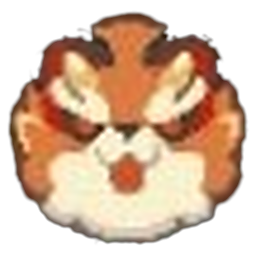
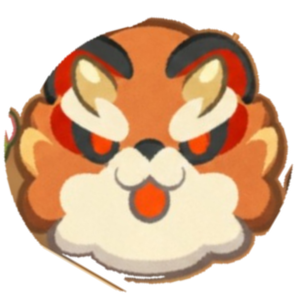
🍡 경단이 진짜 공처럼 데굴데굴 — 접점 마찰·각속도로 굴림 물리 새로 쓰고, 1~9단계 그림을 인게임 고화질 화면에서 다시 뽑음 (서비스 워커 v21)

diff --git a/js/gyeongdan.js b/js/gyeongdan.js
@@ -3,8 +3,9 @@
  *  · 수박게임 방식의 Canvas 2D 원형 물리 드롭 & 머지 게임입니다.
  *  · 외부 라이브러리 없이 직접 만든 물리: 중력 · 서브스텝 충돌(위치 보정 + 반발) ·
  *    벽/바닥 바운스 · 굴러떨어짐 · 위쪽 데드라인 2초 유예.
- *  · 경단 11단계(박쥐단 … 백운단)의 그림은 「경단 도감」에서 오려낸 assets/gyeongdan/tier-1~11.png 를
- *    몸통 반지름에 맞춰 그립니다. 그림을 못 받으면 아래 Canvas 코드의 벡터 그림이 대신 나옵니다.
+ *  · 경단 11단계(박쥐단 … 백운단)의 그림은 「도깨비의 세계」 인게임 화면에서 오려낸
+ *    assets/gyeongdan/tier-1~11.png 를 몸통 반지름에 맞춰 그립니다(1~9단계는 고화질 화면에서 새로 뽑음).
+ *    그림을 못 받으면 아래 Canvas 코드의 벡터 그림이 대신 나옵니다.
  *    (경단 이미지의 저작권은 「도깨비의 세계」에 있으며, 권리자 요청 시 즉시 삭제됩니다.)
  *  · 도구 3종(절구공이 · 교환부 · 승급붓)은 한 판에 각 2회.
  *  · 진행 중인 판은 localStorage 에 남겨 두어 창을 닫아도 이어서 할 수 있습니다.
@@ -55,13 +56,13 @@
      BALL[tier] = 그림 안에서 몸통(공)이 차지하는 지름 비율 → 물리 반지름과 똑같이 맞춥니다. */
   var SPRITE_PATH = 'assets/gyeongdan/tier-';
   var SPRITE_CREDIT = '경단 이미지의 저작권은 「도깨비의 세계」에 있으며, 권리자 요청 시 즉시 삭제될 수 있습니다.';
-  var SPRITE_BALL = { 1: 0.880, 2: 0.921, 3: 0.898, 4: 0.884, 5: 0.923, 6: 0.871,
-    7: 0.927, 8: 0.892, 9: 0.919, 10: 0.910, 11: 0.905 };
-  /* 그림 속 몸통 중심이 그림 가운데에서 얼마나 벗어났는지 — 회전축을 몸통 가운데로 */
+  var SPRITE_BALL = { 1: 0.900, 2: 0.900, 3: 0.900, 4: 0.900, 5: 0.900, 6: 0.872,
+    7: 0.900, 8: 0.874, 9: 0.825, 10: 0.910, 11: 0.905 };
+  /* 그림 속 몸통 중심이 그림 가운데에서 얼마나 벗어났는지 — 회전축을 몸통 가운데로
+     (1~9단계는 인게임 화면에서 몸통을 캔버스 한가운데에 맞춰 잘랐습니다) */
   var SPRITE_OFF = {
-    1: [-0.011, 0.000], 2: [-0.002, -0.002], 3: [-0.018, -0.004], 4: [0.004, 0.028],
-    5: [-0.006, 0.006], 6: [0.002, 0.022], 7: [0.002, 0.004], 8: [-0.010, 0.010],
-    9: [0.007, 0.035], 10: [0.004, -0.008], 11: [-0.013, 0.020]
+    1: [0, 0], 2: [0, 0], 3: [0, 0], 4: [0, 0], 5: [0, 0], 6: [0, 0],
+    7: [0, 0], 8: [0, 0], 9: [0, 0], 10: [0.004, -0.008], 11: [-0.013, 0.020]
   };
   var sprites = [];          // sprites[tier] = Image
   var spriteReady = {};      // 로드가 끝난 단계
@@ -288,31 +289,30 @@
      5. 물리
      =================================================================== */
 
+  /* --- 경단의 손맛을 정하는 값들 ---------------------------------------
+     · REST : 경단끼리 반발 — 아주 낮게 둬서 탱탱볼처럼 튀지 않습니다.
+     · FRIC : 접선 마찰계수(쿨롱). 낮게 둬서 곡면에 얹힌 경단이 옆으로 흘러
+              굴러 내려가게 합니다. 대신 접선 속도는 경단의 각속도로 바뀌어
+              실제로 데굴데굴 돌아갑니다.
+     · FRIC_FLOOR : 바닥 마찰 — 미끄러지는 대신 굴러가게 붙잡습니다.
+     · ROLL_DRAG : 굴러가는 동안의 구름 저항(한 스텝당). 아주 약하게. */
+  var REST = 0.13;
+  var FRIC = 0.20;
+  var FRIC_FLOOR = 0.62;
+  var FRIC_WALL = 0.34;
+  var MIN_BOUNCE = 130;      // 이보다 느리게 닿으면 튀지 않고 딱 붙습니다
+  var ROLL_DRAG = 0.9988;
+
   function integrate(dt) {
     var bodies = S.bodies;
     for (var i = 0; i < bodies.length; i++) {
       var b = bodies[i];
       if (b.held) { continue; }   // 테스트용 고정(화면에는 나오지 않습니다)
       b.vy += GRAVITY * dt;
-      b.vx *= 0.997;
       b.x += b.vx * dt;
       b.y += b.vy * dt;
       b.angle += b.av * dt;
-      b.av *= 0.988;
       if (b.age < 60) { b.age += dt; }
-
-      if (b.x - b.r < WALL) { b.x = WALL + b.r; if (b.vx < 0) { b.vx = -b.vx * 0.34; } }
-      if (b.x + b.r > W - WALL) { b.x = W - WALL - b.r; if (b.vx > 0) { b.vx = -b.vx * 0.34; } }
-      if (b.y + b.r > FLOOR) {
-        b.y = FLOOR - b.r;
-        /* 떡처럼 묵직하게 — 바닥 반발은 낮추고 마찰은 세게 */
-        if (b.vy > 0) { b.vy = b.vy > 260 ? -b.vy * 0.13 : 0; }
-        b.vx *= 0.94;
-        if (Math.abs(b.vx) < 9) { b.vx *= 0.7; }
-        /* 바닥에서 굴러가는 각속도 — 미끄러지지 않고 구르는 느낌 */
-        b.av = b.av * 0.5 + (b.vx / b.r) * 0.5;
-      }
-      if (b.y - b.r < -40) { b.y = b.r - 40; if (b.vy < 0) { b.vy = 0; } }
     }
   }
 
@@ -378,7 +378,7 @@
     bumpBest();
   }
 
-  function resolvePair(a, b) {
+  function resolvePair(a, b, impulse) {
     if (a.held || b.held) { return; }
     var dx = b.x - a.x, dy = b.y - a.y;
     var rr = a.r + b.r;
@@ -389,52 +389,120 @@
     var nx = dx / d, ny = dy / d;
     var overlap = rr - d;
     var ma = a.r * a.r, mb = b.r * b.r, mt = ma + mb;
+    var ima = 1 / ma, imb = 1 / mb;
 
+    /* 위치 보정 — 겹친 만큼 무게 비율대로 나누어 밀어냅니다 */
     a.x -= nx * overlap * (mb / mt);
     a.y -= ny * overlap * (mb / mt);
     b.x += nx * overlap * (ma / mt);
     b.y += ny * overlap * (ma / mt);
 
-    var rvx = b.vx - a.vx, rvy = b.vy - a.vy;
-    var vn = rvx * nx + rvy * ny;
+    if (!impulse) { return; }
+
+    var vn = (b.vx - a.vx) * nx + (b.vy - a.vy) * ny;
     if (vn > 0) { return; }
-    /* 반발 계수 — 통통 튀지 않게 낮게 */
-    var e = 0.14;
-    var j = -(1 + e) * vn / (1 / ma + 1 / mb);
-    a.vx -= j * nx / ma; a.vy -= j * ny / ma;
-    b.vx += j * nx / mb; b.vy += j * ny / mb;
 
-    /* 접선 마찰 — 경단끼리 물처럼 흘러내리지 않고 버티게 (쿨롱 마찰 한계) */
-    var MU = 0.52;
+    /* 법선 반발 — 천천히 닿으면 튀지 않고 딱 달라붙습니다 */
+    var e = (-vn > MIN_BOUNCE) ? REST : 0;
+    var jn = -(1 + e) * vn / (ima + imb);
+    a.vx -= jn * nx * ima; a.vy -= jn * ny * ima;
+    b.vx += jn * nx * imb; b.vy += jn * ny * imb;
+
+    /* 접선 — 접점의 상대 속도에는 각속도도 함께 들어갑니다.
+       미끄러지는 속도가 마찰로 회전으로 바뀌어 진짜 공처럼 데굴데굴 굴러갑니다. */
     var tx = -ny, ty = nx;
-    var vt = (b.vx - a.vx) * tx + (b.vy - a.vy) * ty;
-    var jt = -vt / (1 / ma + 1 / mb);
-    var limit = MU * j;
-    if (jt > limit) { jt = limit; }
-    if (jt < -limit) { jt = -limit; }
-    a.vx -= jt * tx / ma; a.vy -= jt * ty / ma;
-    b.vx += jt * tx / mb; b.vy += jt * ty / mb;
-
-    /* 아주 느린 접선 속도는 정지 마찰로 붙잡기 */
-    var vt2 = (b.vx - a.vx) * tx + (b.vy - a.vy) * ty;
-    if (Math.abs(vt2) < 14) {
-      a.vx += vt2 * tx * 0.5; a.vy += vt2 * ty * 0.5;
-      b.vx -= vt2 * tx * 0.5; b.vy -= vt2 * ty * 0.5;
-    }
-
-    /* 굴러가는 회전 — 접선 속도를 각속도로 나눠 줍니다 */
-    a.av = a.av * 0.6 + (a.vx / a.r) * 0.4 - vt2 / (a.r * 6);
-    b.av = b.av * 0.6 + (b.vx / b.r) * 0.4 - vt2 / (b.r * 6);
-    if (Math.abs(a.av) > 9) { a.av = a.av > 0 ? 9 : -9; }
-    if (Math.abs(b.av) > 9) { b.av = b.av > 0 ? 9 : -9; }
+    var vaT = a.vx * tx + a.vy * ty + a.av * a.r;
+    var vbT = b.vx * tx + b.vy * ty - b.av * b.r;
+    var invEff = 3 * (ima + imb);          // I = ½mr² — 회전 몫까지 합치면 3배
+    var jt = -(vbT - vaT) / invEff;
+    var lim = FRIC * jn;
+    if (jt > lim) { jt = lim; } else if (jt < -lim) { jt = -lim; }
+    a.vx -= jt * tx * ima; a.vy -= jt * ty * ima;
+    b.vx += jt * tx * imb; b.vy += jt * ty * imb;
+    a.av -= 2 * jt * ima / a.r;
+    b.av -= 2 * jt * imb / b.r;
+    clampSpin(a);
+    clampSpin(b);
   }
 
-  function resolveAll() {
+  function clampSpin(b) {
+    if (b.av > 40) { b.av = 40; } else if (b.av < -40) { b.av = -40; }
+  }
+
+  /** 벽·바닥과의 접촉 — 바닥에서는 미끄러짐이 굴림으로 바뀝니다. */
+  function resolveBounds(impulse) {
+    var bodies = S.bodies;
+    for (var i = 0; i < bodies.length; i++) {
+      var b = bodies[i];
+      if (b.held) { continue; }
+      var im = 1 / (b.r * b.r);
+
+      /* 왼쪽 벽 — 법선(+x) · 접선(+y) */
+      if (b.x - b.r < WALL) {
+        b.x = WALL + b.r;
+        if (impulse && b.vx < 0) { wallImpulse(b, -b.vx, im, 1, 0); }
+      }
+      /* 오른쪽 벽 — 법선(-x) · 접선(-y) */
+      if (b.x + b.r > W - WALL) {
+        b.x = W - WALL - b.r;
+        if (impulse && b.vx > 0) { wallImpulse(b, b.vx, im, -1, 0); }
+      }
+      /* 바닥 — 법선(위) · 접선(+x) */
+      if (b.y + b.r > FLOOR) {
+        b.y = FLOOR - b.r;
+        if (impulse) {
+          if (b.vy > 0) {
+            var e = (b.vy > MIN_BOUNCE) ? REST : 0;
+            var jn = -(1 + e) * (-b.vy) / im;
+            b.vy += jn * -1 * im;
+            /* 미끄러지는 속도 → 굴러가는 회전 */
+            var vt = b.vx - b.av * b.r;
+            var jt = -vt / (3 * im);
+            var lim = FRIC_FLOOR * jn;
+            jt = jt > lim ? lim : (jt < -lim ? -lim : jt);
+            b.vx += jt * im;
+            b.av -= 2 * jt * im / b.r;
+          } else if (b.vy < 0) {
+            b.vy = 0;
+          }
+          /* 굴러가는 동안의 구름 저항 — 아주 약하게, 서서히 멈춥니다 */
+          b.vx *= ROLL_DRAG;
+          b.av *= ROLL_DRAG;
+          clampSpin(b);
+        }
+      }
+      /* 천장(판 위쪽 여유) — 드물게 튀어 오를 때만 */
+      if (b.y - b.r < -40) {
+        b.y = b.r - 40;
+        if (impulse && b.vy < 0) { b.vy = 0; }
+      }
+    }
+  }
+
+  /** 정지한 벽에 부딪혔을 때의 마찰·반발. sign = 법선 방향(안쪽) */
+  function wallImpulse(b, approach, im, nx, ny) {
+    var e = (approach > MIN_BOUNCE) ? REST : 0;
+    var jn = (1 + e) * approach / im;
+    b.vx += jn * nx * im;
+    b.vy += jn * ny * im;
+    /* 접선 속도(회전 포함) → 마찰 */
+    var tx = -ny, ty = nx;
+    var vxT = b.vx * tx + b.vy * ty - b.av * b.r;
+    var jt = -vxT / (3 * im);
+    var lim = FRIC_WALL * jn;
+    jt = jt > lim ? lim : (jt < -lim ? -lim : jt);
+    b.vx += jt * tx * im;
+    b.vy += jt * ty * im;
+    b.av -= 2 * jt * im / b.r;
+    clampSpin(b);
+  }
+
+  function resolveAll(impulse) {
     var bodies = S.bodies;
     for (var i = 0; i < bodies.length; i++) {
       var a = bodies[i];
       for (var j = i + 1; j < bodies.length; j++) {
-        resolvePair(a, bodies[j]);
+        resolvePair(a, bodies[j], impulse);
       }
     }
   }
@@ -458,22 +526,18 @@
   function step(dt) {
     integrate(dt);
     mergePass();
-    for (var it = 0; it < 4; it++) { resolveAll(); }
-    /* 해소 뒤에도 벽·바닥을 벗어나지 않게 한 번 더 */
+    /* 속도(반발·마찰)는 한 번, 겹침 보정은 여러 번 — 굴러가는 손맛이 살아 있습니다. */
+    resolveAll(true);
+    resolveBounds(true);
+    for (var it = 0; it < 3; it++) {
+      resolveAll(false);
+      resolveBounds(false);
+    }
     for (var i = 0; i < S.bodies.length; i++) {
       var b = S.bodies[i];
-      if (b.x - b.r < WALL - 0.5) { b.x = WALL + b.r; b.vx = Math.abs(b.vx) * 0.2; }
-      if (b.x + b.r > W - WALL + 0.5) { b.x = W - WALL - b.r; b.vx = -Math.abs(b.vx) * 0.2; }
-      if (b.y + b.r > FLOOR + 0.5) { b.y = FLOOR - b.r; if (b.vy > 0) { b.vy *= -0.1; } }
-      /* 아주 느린 속도는 깔끔하게 멈춰 미세한 떨림을 없앱니다 (떡의 무게감) */
-      if (Math.abs(b.vx) < 2.5) { b.vx = 0; }
-      if (Math.abs(b.vy) < 2.5) { b.vy = 0; }
-      /* 거의 멈췄을 때는 제자리로 살짝 돌아와 얼굴이 바로 서게 */
-      if (Math.abs(b.vx) < 12 && Math.abs(b.av) < 0.8) {
-        var upright = Math.round(b.angle / (Math.PI * 2)) * Math.PI * 2;
-        b.angle += (upright - b.angle) * 0.06;
-        b.av *= 0.9;
-        if (Math.abs(upright - b.angle) < 0.01) { b.angle = upright; }
+      /* 완전히 멈춘 경단만 속도를 0으로 — 각도(angle)는 굴러간 그대로 둡니다! */
+      if (Math.abs(b.vx) < 0.8 && Math.abs(b.vy) < 3 && Math.abs(b.av) < 0.25) {
+        b.vx = 0; b.av = 0;
       }
     }
     stepParticles(dt);

diff --git a/sw.js b/sw.js
@@ -1,5 +1,5 @@
 /* 연못 서비스 워커 — 오프라인에서도 연못이 열리도록 */
-var CACHE_NAME = 'yeonmot-munpa-v20';
+var CACHE_NAME = 'yeonmot-munpa-v21';
 var CORE_ASSETS = [
   './',
   './index.html',
